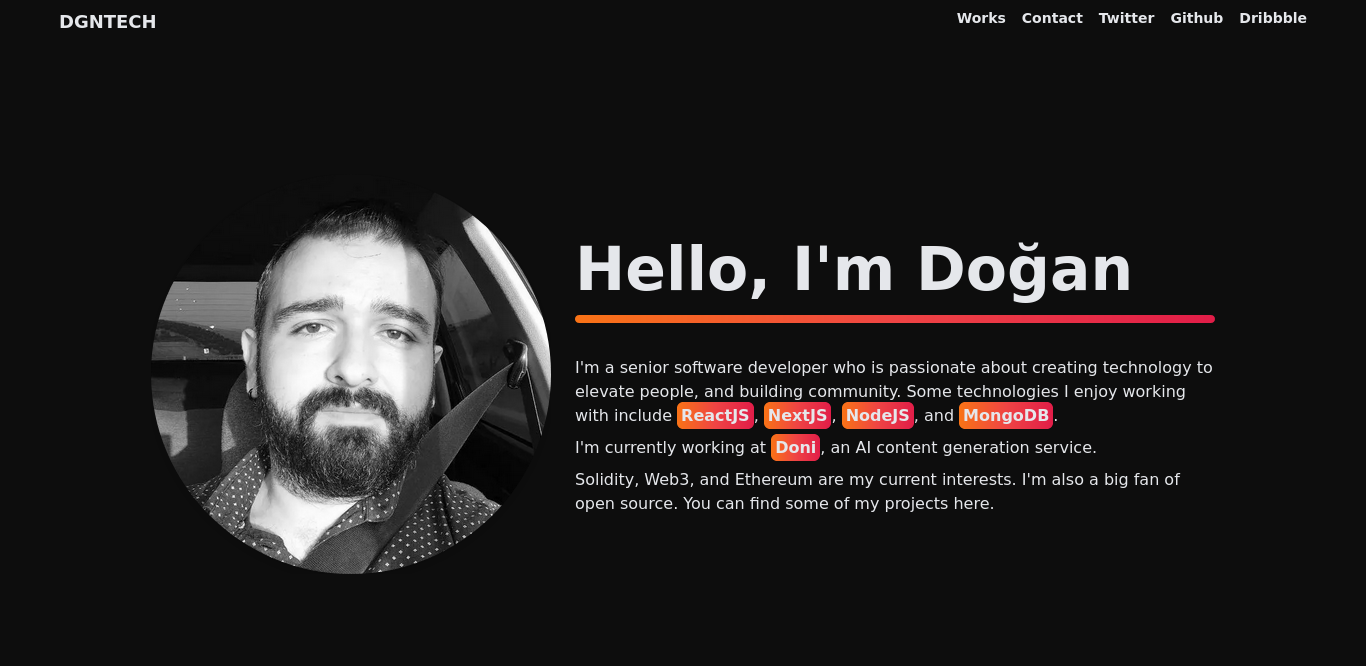
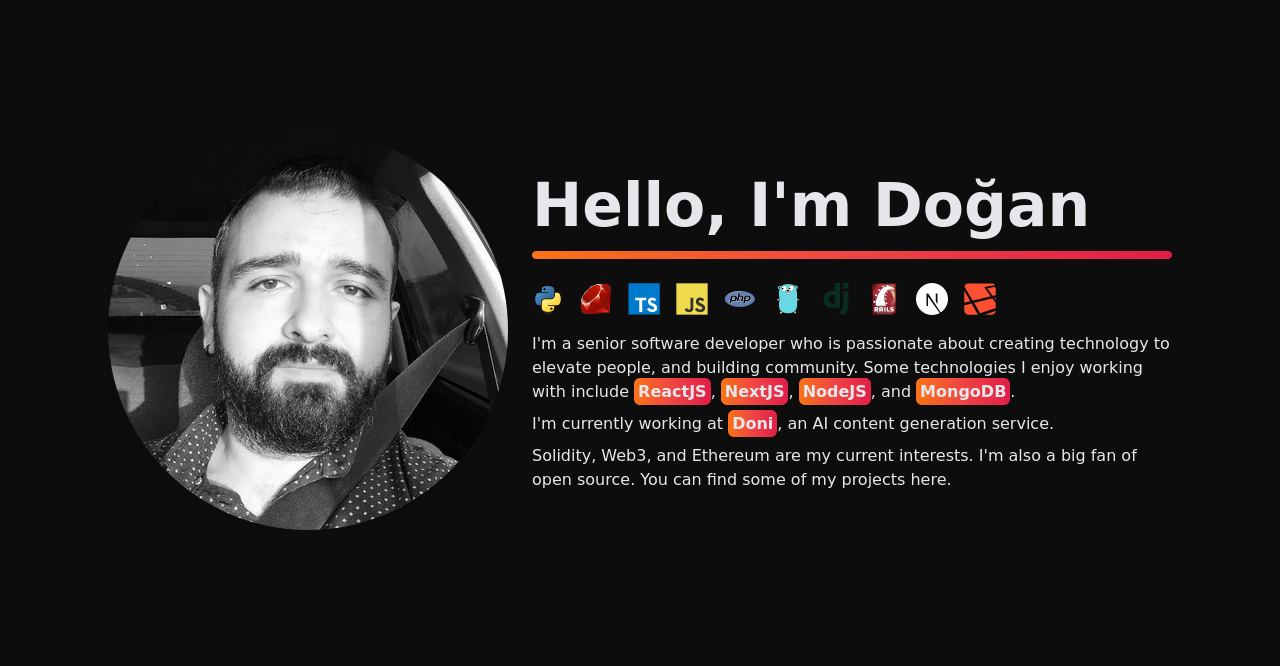
skills

Changed region(s): [[0.0625, 0.2402, 0.9375, 0.8709], [0.6875, 0.0, 0.9688, 0.0601], [0.0312, 0.0, 0.125, 0.0601]]

diff --git a/components/experience.component.tsx b/components/experience.component.tsx
@@ -1,0 +1,40 @@
+import Image from "next/image";
+
+export default function ExperienceComponent() {
+  return (
+    <div className="w-full h-8 flex justify-start gap-4 flex-wrap">
+      <div className="h-8 w-8">
+        <Image width={32} height={32} alt="python" layout="responsive" title="Python" src="https://cdn.jsdelivr.net/gh/devicons/devicon/icons/python/python-original.svg" />
+      </div>
+      <div className="h-8 w-8">
+        <Image width={32} height={32} alt="ruby" layout="responsive" title="Ruby" src="https://cdn.jsdelivr.net/gh/devicons/devicon/icons/ruby/ruby-original.svg" />
+      </div>
+      <div className="h-8 w-8">
+        <Image width={32} height={32} alt="typescript" layout="responsive" title="TypeScript" src="https://cdn.jsdelivr.net/gh/devicons/devicon/icons/typescript/typescript-original.svg" />
+      </div>
+      <div className="h-8 w-8">
+        <Image width={32} height={32} alt="javascript" layout="responsive" title="Javascript" src="https://cdn.jsdelivr.net/gh/devicons/devicon/icons/javascript/javascript-original.svg" />
+      </div>
+      <div className="h-8 w-8">
+        <Image width={32} height={32} alt="php" layout="responsive" title="PHP" src="https://cdn.jsdelivr.net/gh/devicons/devicon/icons/php/php-original.svg" />
+      </div>
+      <div className="h-8 w-8">
+        <Image width={32} height={32} alt="php" layout="responsive" title="Golang" src="https://cdn.jsdelivr.net/gh/devicons/devicon/icons/go/go-original.svg" />
+      </div>
+      <div className="h-8 w-8">
+        <Image width={32} height={32} alt="django" layout="responsive" title="Django" src="https://cdn.jsdelivr.net/gh/devicons/devicon/icons/django/django-plain.svg" />
+      </div>
+      <div className="h-8 w-8">
+        <Image width={32} height={32} alt="ruby on rails" layout="responsive" title="Ruby On Rails" src="https://cdn.jsdelivr.net/gh/devicons/devicon/icons/rails/rails-original-wordmark.svg" />
+      </div>
+      <div className="h-8 w-8">
+        <svg viewBox="0 0 128 128" className="w-8 h-8 text-white fill-white">
+          <path d="M64 0C28.7 0 0 28.7 0 64s28.7 64 64 64c11.2 0 21.7-2.9 30.8-7.9L48.4 55.3v36.6h-6.8V41.8h6.8l50.5 75.8C116.4 106.2 128 86.5 128 64c0-35.3-28.7-64-64-64zm22.1 84.6l-7.5-11.3V41.8h7.5v42.8z"></path>
+        </svg>
+      </div>
+      <div className="h-8 w-8">
+        <Image width={32} height={32} alt="laravel" layout="responsive" title="Laravel" src="https://cdn.jsdelivr.net/gh/devicons/devicon/icons/laravel/laravel-plain.svg" />
+      </div>
+    </div>
+  );
+}

diff --git a/pages/index.tsx b/pages/index.tsx
@@ -6,6 +6,7 @@ import ContactComponent from '../components/contact.component'
 import LayoutComponent from '../components/layout.component'
 import WorksComponent from '../components/works.component'
 import { NextSeo } from 'next-seo';
+import ExperienceComponent from '../components/experience.component'
 
 const Home: NextPage = () => {
   return (
@@ -38,6 +39,7 @@ const Home: NextPage = () => {
         <div className='w-full md:w-1/2'>
           <h1 className="text-6xl font-bold text-gray-200 mb-2 pb-2 text-center md:text-left">Hello, I'm Doğan</h1>
           <div className="h-2 bg-gradient-to-r from-orange-500 via-red-500 to-rose-600 w-full max-w-6xl mb-6 rounded-full"></div>
+          <ExperienceComponent />
           <div className="text-gray-200 mt-2 pt-2 text-center md:text-left leading-loose md:leading-normal font-medium">
             <p>I'm a senior software developer who is passionate about creating technology to elevate people, and building community. Some technologies I enjoy working with include <span className='rounded-md font-bold bg-gradient-to-r from-orange-500 via-red-500 to-rose-600 p-1'>ReactJS</span>, <span className='rounded-md font-bold bg-gradient-to-r from-orange-500 via-red-500 to-rose-600 p-1'>NextJS</span>, <span className='rounded-md font-bold bg-gradient-to-r from-orange-500 via-red-500 to-rose-600 p-1'>NodeJS</span>, and <span className='rounded-md font-bold bg-gradient-to-r from-orange-500 via-red-500 to-rose-600 p-1'>MongoDB</span>.</p>
             <p className='py-2'>I'm currently working at <Link href="https://getdoni.com"><a className='rounded-md font-bold bg-gradient-to-r from-orange-500 via-red-500 to-rose-600 p-1'>Doni</a></Link>, an AI content generation service.</p>
@@ -45,8 +47,8 @@ const Home: NextPage = () => {
           </div>
         </div>
       </div>
-      <WorksComponent></WorksComponent>
-      <ContactComponent></ContactComponent>
+      <WorksComponent />
+      <ContactComponent />
     </LayoutComponent>
   )
 }

diff --git a/next.config.js b/next.config.js
@@ -2,6 +2,9 @@
 const nextConfig = {
   reactStrictMode: true,
   swcMinify: true,
+  images: {
+    domains: ['cdn.jsdelivr.net'],
+  }
 }
 
 module.exports = nextConfig
